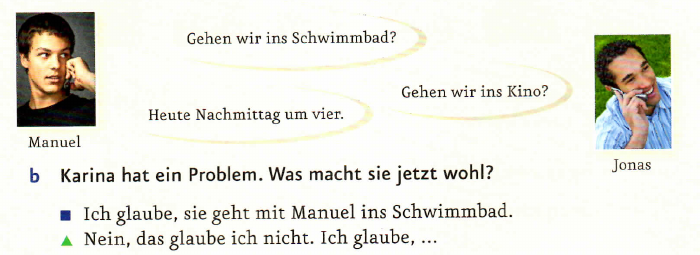
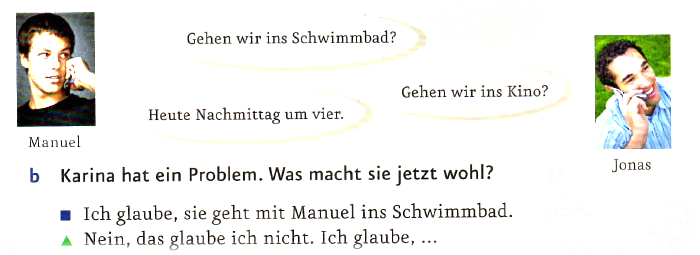
KB A1.1 p45: bubble dots 6px+ clear of glyphs, white-normalize + feather ex2a art

diff --git a/src/components/NativePage.tsx b/src/components/NativePage.tsx
@@ -32,7 +32,7 @@ function NativePageContent({d}:{d:NativeData}){
  {d.fields.map(f=>{const p={key:f.id,'data-native-field':f.id,'aria-label':f.label,className:'nativeAnswer '+(f.id in result?(result[f.id]?'nativeCorrect':'nativeWrong'):''),style:box(f)};if(f.kind==='radio')return <input {...p} type="radio" name={key+'-'+(f.name||f.id)} value={f.value} checked={values[f.name||f.id]===f.value} onChange={()=>set(f.name||f.id,f.value||'')}/>;if(f.kind==='checkbox')return <input {...p} type="checkbox" checked={values[f.id]==='true'} onChange={e=>set(f.id,String(e.target.checked))}/>;if((f.h>42||f.unordered)&&f.kind==='text')return <textarea {...p} value={values[f.id]||''} onChange={e=>set(f.id,e.target.value)}/>;if(f.kind==='select')return <input {...p} value={values[f.id]||''} onChange={e=>set(f.id,e.target.value)} list={key+'-'+f.id}/>;return <input {...p} value={values[f.id]||''} onChange={e=>set(f.id,e.target.value)} autoComplete="off" spellCheck={false}/>})}
  {d.groups.filter(g=>d.fields.some(f=>f.group===g.id&&f.answer!==undefined)).map(g=><div key={g.id} className="nativeTaskCheck" data-native-check={g.id} style={{left:g.x,top:g.y}}><CheckButton onClick={()=>check(g.id)}></CheckButton><output aria-live="polite">{d.fields.some(f=>f.group===g.id&&f.id in result)?d.fields.filter(f=>f.group===g.id&&f.answer!==undefined).every(f=>result[f.id])?'✓ Richtig!':'Noch einmal':''}</output></div>)}
 {d.page===54&&d.book==='kb-a11'&&(()=>{const g=(k:string)=>(values[k]||'').split(',').filter(Boolean).sort().join(',');const ok=g('match54-0')==='1,2,3,5'&&g('match54-1')==='4'&&g('match54-2')==='0';return <div style={{position:'absolute',inset:0,zIndex:6,pointerEvents:'none'}}><LineMatching id="match54" left={['a\u00a0\u00a0\u00a0Das Paar:','b\u00a0\u00a0\u00a0Der Mann:','c\u00a0\u00a0\u00a0Die Frau:']} right={['vielleicht in eine Disco gehen','Freunde besuchen','essen','Musik hören','zu einem Fußballspiel gehen','vielleicht ins Kino gehen']} values={values} onMatch={set} leftX={196} rightX={391} leftWidth={124} rightWidth={370} ys={[683,711,739]} rightYs={[657,685,713,741,769,797]} width={d.width} height={d.height} fontSize={19} example={[0,1]} multiple/><div className="nativeTaskCheck" data-native-check="task2" style={{left:208,top:836,pointerEvents:'auto'}}><CheckButton onClick={()=>R({...result,match54:ok})}></CheckButton><output aria-live="polite">{result.match54===undefined?'':result.match54?'✓ Richtig!':'Noch einmal'}</output></div></div>})()}
- {d.page===45&&d.book==='kb-a11'&&(()=>{const g=(k:string)=>(values[k]||'').split(',').filter(Boolean).sort().join(',');const ok=g('match45-0')==='0'&&g('match45-1')==='1'&&g('match45-2')==='0,1';return <div style={{position:'absolute',inset:0,zIndex:6,pointerEvents:'none'}}><LineMatching id="match45" left={['Gehen wir ins Schwimmbad?','Gehen wir ins Kino?','Heute Nachmittag um vier.']} right={['Manuel','Jonas']} values={values} onMatch={set} leftX={322} rightX={177} leftWidth={282} rightWidth={81} leftXs={[322,535,283]} leftWidths={[282,204,270]} rightXs={[177,754]} rightWidths={[81,81]} ys={[1221,1276,1299]} rightYs={[1218,1240]} itemHeights={[33,33,33]} rightHeights={[116,118]} leftDotXs={[314,527,275]} leftDotYs={[1237,1292,1315]} rightDotXs={[217,794]} rightDotYs={[1210,1225]} width={d.width} height={d.height} fontSize={17} multiple className="lmHideLeft lmHideRight"/><div className="nativeTaskCheck" data-native-check="2a" style={{left:600,top:1322,pointerEvents:'auto'}}><CheckButton onClick={()=>R({...result,match45:ok})}></CheckButton><output aria-live="polite">{result.match45===undefined?'':result.match45?'✓ Richtig!':'Noch einmal'}</output></div></div>})()}
+ {d.page===45&&d.book==='kb-a11'&&(()=>{const g=(k:string)=>(values[k]||'').split(',').filter(Boolean).sort().join(',');const ok=g('match45-0')==='0'&&g('match45-1')==='1'&&g('match45-2')==='0,1';return <div style={{position:'absolute',inset:0,zIndex:6,pointerEvents:'none'}}><LineMatching id="match45" left={['Gehen wir ins Schwimmbad?','Gehen wir ins Kino?','Heute Nachmittag um vier.']} right={['Manuel','Jonas']} values={values} onMatch={set} leftX={322} rightX={177} leftWidth={282} rightWidth={81} leftXs={[322,535,283]} leftWidths={[282,204,270]} rightXs={[177,754]} rightWidths={[81,81]} ys={[1221,1276,1299]} rightYs={[1218,1240]} itemHeights={[33,33,33]} rightHeights={[116,118]} leftDotXs={[314,519,268]} leftDotYs={[1237,1292,1315]} rightDotXs={[217,794]} rightDotYs={[1210,1225]} width={d.width} height={d.height} fontSize={17} multiple className="lmHideLeft lmHideRight"/><div className="nativeTaskCheck" data-native-check="2a" style={{left:600,top:1322,pointerEvents:'auto'}}><CheckButton onClick={()=>R({...result,match45:ok})}></CheckButton><output aria-live="polite">{result.match45===undefined?'':result.match45?'✓ Richtig!':'Noch einmal'}</output></div></div>})()}
  {d.audio.map((a,i)=><button key={a.id} data-audio-src={a.src} className="nativeAudioMarker" style={{left:Math.max(10,a.x-8),top:a.y+i*4,width:70,height:28}} aria-label={a.label} onClick={()=>{const player=audio.current;if(player){player.src=a.src;void player.play()}}}>▶ {a.src.match(/track(\d+)/)?.[1]}</button>)}
  {d.videos?.map(v=><button key={v.id} className="nativeAudioMarker" style={{left:v.x,top:v.y,width:82,height:28}} aria-label={v.label} onClick={()=>{V(v);video.current?.showModal()}}>▶ {v.id}</button>)}
  {!d.hidePageNumber&&<span className="nativePageNumber">{d.page}</span>}
